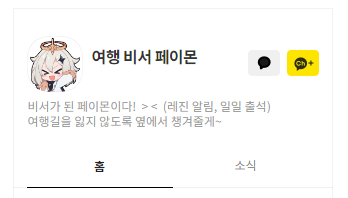
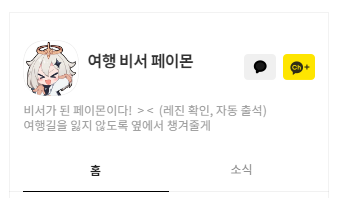
Resolve #7, resolve #8

diff --git a/docusaurus.config.js b/docusaurus.config.js
@@ -9,7 +9,7 @@ const config = {
   title: "페이몬 ",
   tagline: "페이몬과 함께하는 무언가의 페이지",
   url: "https://github.com/binchoo/paimonganyu-doc",
-  baseUrl: "/",
+  baseUrl: "/paimonganyu-doc/",
 
   projectName: "paimonganyu-doc",
   organizationName: "binchoo",

diff --git a/docs/tutorial/index.md b/docs/tutorial/index.md
@@ -1,150 +1,262 @@
 ---
 id: index
-title: 페이몬 애드온 튜토리얼
+title: 여행 비서 페이몬! 튜토리얼
 sidebar_position: 1
 ---
+![채널 아이콘](resources\kakao_channel_icon_100_100.png)
 
-# 여행 비서 페이몬 기능 안내
+# 여행 비서 페이몬! 튜토리얼
 
-## 📚여행 비서 페이몬!
+## 원신 유저를 위한 카카오 챗봇
 
-**여행 비서 페이몬**은 Hoyoverse 게임 [원신](https://genshin.hoyoverse.com/ko/)의 API를 래핑해
+**「여행 비서 페이몬!」**은 호요버스(前 미호요)가 운영하는 오픈 월드 RPG 게임 [**원신**](https://genshin.hoyoverse.com/ko/)을 대상으로 한 게임 편의성 챗봇입니다.
 
-각종 게임 편의 기능을 제공하는 카카오 챗봇입니다.
+해당 챗봇은 호요버스 커뮤니티의 API를 래핑하여, 원신 유저에게 다양한 편의 기능을 제공하는 것을 목표로 합니다.
 
-원신 플레이어(이하 "여행자")들을 위해 페이몬이 대신 할 수 있는 일을 살펴볼까요??
+현 시점에 `호요랩 일일 출석`,  `여행자 상태 조회`, `코드 리딤 배포`를 중심으로 기능을 구성하고 있습니다.
 
 ![img](resources\channel_profile.png)
+> **「여행 비서 페이몬!」 카카오 채널** :point_right: http://pf.kakao.com/_mtPFb
+>
+> 카카오 채널과 친구를 맺고 챗봇 서비스 이용을 시작할 수 있어요!
 
-## 📗호요랩 일일 출석 관련 서비스
+여행 가이드 뿐만이 아니라 비서로서의 역할을 자처하는 페이몬! 
 
+페이몬 비서가 <u>여행자들을 대신해 어떤 일을 할 수 있는지</u> 살펴볼까요? 
+
+## 호요랩 일일 출석
 ![호요랩의 일일출석](resources\hoyolab_dailycheckin.png)
+*호요랩 일일 출석 화면*
 
-여행자들은 호요버스 커뮤니티인 [HoYoLab에 출석](https://webstatic-sea.mihoyo.com/ys/event/signin-sea/index.html?act_id=e202102251931481)해서 소소한 보상을 받을 수 있습니다.
+여행자들은 호요버스의 게임 커뮤니티 [호요랩](https://webstatic-sea.mihoyo.com/ys/event/signin-sea/index.html?act_id=e202102251931481)에 매일 출석하여 소소한 게임 보상을 획득할 수 있습니다. 
 
-하지만 출석 체크 위해 커뮤니티에 매일 방문하는 건 귀찮아서... 많이 빼먹게 되죠?
+그러나 페이몬 비서는 여행자들이 커뮤니티 방문을 귀찮아하고, 출석 체크를 자주 까먹고 있다는 걸 알고 있어요 :cry:.
 
-> ![페이몬 이모지](resources\paimon_emoji.png) 그럼 **여행 비서 페이몬**에게 당신의 호요버스 통행증을 등록해 줘!
+> ![페이몬 이모지](resources\kakao_channel_icon_50_50.png)**야박한 보상도 티끌 모아 태산!**
 >
-> 페이몬이 출석 체크를 매일 대신해서 해 줄게~
+> 「여행 비서 페이몬!」에게 당신의 <u>호요버스 통행증을 등록</u>해 줘! 페이몬이 출석 체크를 매일 매일 대신해 줄게~
 
-### 출석 체크
+### 자동 일일 출석 서비스
 
-통행증을 등록한 여행자라면 페이몬에게 출석체크를 부탁할 수 있습니다.
+「여행 비서 페이몬!」은 여행자의 등록된 통행증이 있을 경우, 매일 매일 특정 시각에 :heavy_check_mark:호요랩 일일 출석을 넣어주고 있습니다.![배치 일일 출석 워크플로](resources\batch_dailycheck_workflow.png)
+*Cron 기반의 일일 출석 자동화 워크플로*
 
-[**통행증 조회> 출석 체크** 클릭!]![일일 출석 요청](resources\ui_dailycheck.png)
+### 직접 일일 출석도 가능해요
 
-### 자동 출석 체크 서비스
+통행증을 등록한 여행자라면 이 통행증을 가지고 페이몬에게 출석 체크를 직접 부탁할 수도 있습니다.
 
-**여행 비서 페이몬**은 여행자가 등록한 통행증을 사용하여 매일 매일 출석 체크를 넣어줍니다.
+![direct_daily_check_in](resources\direct_daily_check_in.png)
 
-> ![페이몬 이모지](resources\paimon_emoji.png) 그거 알아? 페이몬은 하루에도 세 번, 여행자를 대신해서 출석 체크를 시도하고 있다구~
+*홈> 통행증 조회> 출석 체크*
 
-**Cron 기반의 출석체크 워크플로**![배치 일일 출석 워크플로](resources\batch_dailycheck_workflow.png)
+또는, *홈> 기능 모음> 일일 출석*
 
-> **출석 체크 시점 안내**
+
+
+> ![페이몬 이모지](resources\kakao_channel_icon_50_50.png)**패이몬의 호요랩 일일 출석 시점 정리**
 >
-> 1. 챗봇 사용자가 출석 체크를 요청할 경우
-> 2. 챗봇 사용자가 통행증을 페이몬에게 등록한 시점에 1회
-> 3. 매일 3번의 정해진 시각에: GMT+9 (Seoul) 01, 09, 17시
+>   1. 챗봇 사용자가 페이몬에게 직접 출석 체크를 요청할 경우.
+>   2. 챗봇 사용자가 페이몬에게 통행증을 등록에 성공한 시점에 1회.
+>   3. 매일 3번 8시간 마다 -  서울 시각 1시/9시/17시.
+>
+> 페이몬은 하루에도 세 번, 여행자를 대신해서 출석 체크를 시도한다는 점 알아줘~
 
-### 출석 체크 이력
+### 일일 출석 이력 조회
 
-페이몬을 통해 호요랩 일일 출석을 시도한 이력을 확인해 볼 수 있습니다.
+페이몬이 여행자를 대신해 일일 출석을 시도한 이력을 모든 통행증에 대해서 확인해 볼 수 있습니다.
 
-[**기능 모음> 페이몬의 출석 기록**]
+![](resources\daily_check_in_log.png)
 
-![출석체크 이력](resources\ui_dailycheck_log.png)
+*홈> 통행증 조회> 출석 체크>  결과 응답> 출첵 로그*
 
-## 📕여행자 실시간 조회 서비스
+또는, *홈> 기능 모음> 페이몬의 출석 기록 <4*
 
-여행자들의 피로도 수치인 "레진", 지금 얼마나 쌓여 버렸는지 궁금하지 않으세요?
+## 여행자 조회 서비스
 
-그럼 여행 비서인 페이몬에게서 확인을 부탁해 보세요.
+![레진 아이콘](resources\resion_icon_50_50.png)
 
-![여행자 스테이터스](resources\ui_traveler_status.png)
+### 실시간 스테이터스 조회
 
-> ![페이몬 이모지](resources\paimon_emoji.png) 레진/레진회복/선계보화/탐사파견수 값들을 알려줄게~ 이것들은 호요랩 API를 통해서 가져온 내용이야!
+여행자들의 피로도 수치인 **레진**! 게임에 들어가지 않은 동안 얼만큼 쌓였을까 궁금하지 않으세요?
 
-## 📘 통행증 관련 안내
+이럴 땐 여행 비서인 페이몬에게 물어보세요. 등록된 모든 여행자 캐릭터들의 스테이터스를 조회하여 알려줄 거예요~.
 
-> ![페이몬 이모지](resources\paimon_emoji.png) 페이몬에게 통행증을 알려주지 않으면, 귀찮은 일들을 대신해 줄 수 없어...
+![여행자 스테이터스](resources\traveler_status.png)
 
-### 통행증은 왜 필요한가요?
+*홈> 실시간 스탯*
+또는, *홈> 기능 모음>  실시간 여행자 상태*
 
-통행증이란 여행자 여러분의 호요버스 계정 인증 정보입니다.
+> ![페이몬 이모지](resources\kakao_channel_icon_50_50.png)**각 스테이터스 설명!** 
+>
+> 페이몬이 알려주는 이 값들은 호요랩 API에서 가져오고 있어~.
+>
+> 1. **레진**: 현재 쌓여있는 레진.
+>
+> 2. **레진회복**: 레진 풀 회복까지 예상되는 시간.
+>
+> 3. **선계보화**: 선계에 쌓여있는 선계 코인 수.
+>
+> 4. **탐사중**: 탐사 파견 상태에 있는 캐릭터 숫자.
 
-호요랩 API를 호출할 때 필요하므로 **여행 비서 페이몬에게 꼭 하나 이상의 통행증을 등록**해주세요.
+### :calendar: 게임 전적 조회
+
+(개발 예정:calendar: 기능입니다.)
+
+「여행 비서 페이몬!」은 호요랩 API 이용 기반이 마련되어 있어서 추후,
+
+게임 전적 데이터를 활용한 기능이 업데이트 될 가능성이 있습니다. 페이몬 비서의 직무 확장을 기대해 주세요!
+
+## 통행증 특강
+
+![열쇠 아이콘](resources\black_key_50_50.png)
+
+> ![페이몬 이모지](resources\paimon_crying_50_50.png) **통행증의 중요성에 대해⋯**
+> 통행증이 없다면 페이몬이 여행자 대신 귀찮은 일들을 처리할 수 없어. 비서 실직이라구⋯.
+>
+> 페이몬 비서와의 "첫 단추"는 통행증 QR을 만들어서 스캔하는 거야. 꼭 기억해!
+
+### 통행증이란?
+
+통행증이란, 호요버스에서 여행자의 호요버스 계정에 부여하는 고유한 인증 정보를 말합니다.
 
 ![호요랩 통행증](resources\hoyolab_hoyopass.png)
 
-호요랩에 가면 자신의 통행증 아이디가 있다는 걸 확인해 볼 수 있어요~
+*(호요랩> 개인 페이지) 본인에게 통행증 ID가 있는 걸 눈치 채셨나요?*
 
-### 통행증 등록하기
 
-통행증은 3가지 유저 인증 정보로 구성되며, 이 값들을 챗봇에 일일히 입력하는 것은 버겁습니다.
 
-- `ltuid`과 `ltoken`: 호요버스 계정의 인증 정보입니다.
+페이몬 비서가 여러분을 대신해 어떻게 호요버스 API를 호출 할 수 있을까요? 
 
-- `cookietoken`: 호요버스 계정의 코드 리딤용 인증 정보입니다.
+바로 여행자가 등록한 통행증 덕분입니다!
 
-따라서 **보안 통행증 QR 만들기** 절차에 따라 **QR 코드를 스캔하여** 업로드해 주세요!!
 
-## 📘 통행증 QR 만들기
 
-### 1단계. 호요버스 계정의 인증 정보를 찾자
+「여행 비서 페이몬!」 이용에 필수 불가결한 **통행증**! 꼭 하나 이상의 통행증을 등록해 주세요.
 
-#### ltuid, ltoken 찾는 방법
+### 본인의 통행증 값 알아내기
 
-[HoYoLab](https://www.hoyolab.com/home) 로그인 후 브라우저 쿠키에서 획득
+본인의 통행증 정보는 <u>호요랩 로그인 후 브라우저의 쿠키에 세팅</u>되며, 3가지 값으로 구성됩니다.
 
-![img-20220615135949028](resources\ltuid_ltoken.png)
+1. `ltuid`: 호요버스 계정의 통행증 아이디입니다.
+2. `ltoken`: 통행증 아이디에 대응되는 개인 토큰입니다.
+3. `cookie_token`: 코드 리딤 서비스에서 이용되는 개인 토큰입니다. 
 
-#### cookietoken 찾는 방법
 
-**[원신 리딤 페이지](https://genshin.hoyoverse.com/ko/gift)**에서 로그인 후 브라우저 쿠키에서 획득
 
-![img-20220615140445067](C:\Users\wnwoq\AppData\Roaming\Typora\typora-user-imgs\img-20220615140445067.png)
+이 세 가지 값을 찾는 방법 - 간단해요!
 
-### 2단계. QR 코드를 만들자
+#### **1단계. HoYoLab에서 로그인**
 
-1. [링크: 현재 깃허브 페이지 QR 생성하는 부분]에서 획득한`ltuid, ltoken, cookietoken`를 모두 입력하여 주세요.
-2. QR 생성을 요청해서 QR 코드를 획득합니다.
+![호요랩 로그인](resources\hoyopass_login.png)
 
-> ![페이몬 이모지](resources\paimon_emoji.png) QR 코드에 담은 여행자의 인증 정보는 암호화가 되어있어서 **보안 통행증**이라고 부르고 있지~
+**PC 브라우저**로 [호요랩](https://www.hoyolab.com/home)에 방문해서 본인의 호요버스 계정으로 로그인 해 주세요.
+
+#### **2단계. 개발자 도구로 쿠키 값 들여다 보기**
+
+![통행증 쿠키](resources\hoyopass_cookies.png)
+
+
+<details>
+  <summary>한국어 단계</summary>
+   `개발자도구(F12)` > `응용 프로그램` 탭> `저장소` 섹션> `쿠키` 항목> 호요랩 URL 주소 클릭!
+</details>
+
+<details>
+  <summary>영어 단계</summary>
+   `DevTools(F12)`> `Application` 탭> `Storage` 섹션> `Cookies` 항목> 호요랩 URL 주소 클릭!
+</details>
+
+
+`ltoken`, `ltuid`, `cookie_token` 값을 발견하면 메모장 같은 데에 잘 복사해 두세요~.
+
+
+
+## 통행증 관리 서비스
+
+![열쇠 아이콘](resources\black_key_50_50.png)
+
+### QR 코드(보안 통행증) 만들기
+
+[통행증 값 알아내기](./tutorial#본인의-통행증-값-알아내기)에서 통행증 쿠키 값을 모두 확인했나요? 
+
+![image-20220619013518983](resources\create-qr-code.png)
+
+「여행 비서 페이몬!」의 통행증 등록은 QR 코드 스캔으로 이뤄집니다.
+
+[통행증 QR 만들기 페이지](./tutorial/create-qr-code)에서 통행증 쿠키 값들을 QR에 담아 생성해 주세요.
+
+> ![페이몬 이모지](resources\kakao_channel_icon_50_50.png)**QR 코드를 쓰는 이유!**
 >
-> 그래도 이걸 다른 사람에게 공유해서는 안 돼! 멋대로 스캔해 가 버리면 곤란하잖아?
+> 통행증을 구성하는 값들이 무척 복잡하지?
+>
+> 그들을 채팅에다 입력하기 버거울 뿐더러, 개인 정보를 텍스트로 전송하는 건 안전하지 못 해.
+>
+> 하지만 페이몬하고 만든 QR 코드는 암호 처리가 돼 있어! 그래서 **보안 통행증**이라 부르곤 하지.
 
-## 📘 통행증 등록하기 (QR 스캔)
+> ![루미네 이모지](resources\lumine_dizzy_50_50.png)**QR 코드를 다른 사람한테 공유해도 돼?**
+>
+> ![페이몬 이모지](resources\paimon_crying_50_50.png) 그래도 안 돼! 걔가 멋대로 스캔해 가 버리면 곤란하잖아⋯.
 
-![QR 생성된 모습](resources\ui_qrscan.png)
+### 통행증 등록 (QR 스캔)
 
-1. **여행 비서 페이몬**에서 QR 스캔 기능을 호출합니다. **(QR 등록 안내> 스캔 진행> 스캐너 열기)**
-2. 웹 사이트에서 제작한 QR 코드를 스캔해 주세요.
-3. 페이몬이 통행증 정보를 등록 완료하면, 해당 계정의 모든 여행자 캐릭터가 표시됩니다. (주의. 10초 이상 응답이 지연될 경우 스캔을 재시도 해보세요)
+**통행증 등록**은 여행 비서 페이몬과 <u>처음으로 해야 할 일</u>입니다!
 
-## 📘 통행증 조회
 
-통행증 등록을 마쳤다면 아래와 등록된 통행증을 조회할 수 있어야 합니다.
 
-꼭 `통행증 조회` 기능을 호출해 보세요. 해당 계정에 대해 출석 체크를 요청하거나, 정보 삭제를 요청할 수도 있습니다~
+[통행증 QR 만들기 페이지](./tutorial/create-qr-code)에서 QR 코드를 완성하고 챗봇에서 스캔해 주세요.
 
-![통행증 조회](resources\ui_hoyopasses.png)
+스캔에 성공하면, 페이몬은 해당 계정 속의 여행자들을 파악할 거예요.
 
-## :orange_book: 코드 리딤 서비스
+![통행증 등록](resources\hoyopass_register.png)
+
+*하단 메뉴> 통행증 등록* 
+
+또는, *홈> 기능 모음> 통행증 등록* 에서 스캐너를 열고 QR 코드를 스캔 전송하세요.
+
+
+
+> **지연 응답 대처**
+>
+> AWS Labmda의 콜드 스타트와 Springboot의 부트스트랩이 지연을 야기할 수 있습니다. (프로젝트 목적상 기술 스택을 타협할 수 없었습니다.)
+>
+> 응답 지연 발생시 약 10초의 텀을 가지고 수차례 재시도 해주세요.
+
+### 통행증 조회
+
+페이몬 비서가 관리하는 통행증 정보를 보고 싶으신가요? 그럼 통행증 조회를 요청하여 보세요.
+
+통행증을 조회하고 나서 출석 체크를 요청하거나, 정보 삭제를 요청할 수도 있어요.
+
+![통행증 조회](resources\hoyopass_list.png)
+
+## 코드 리딤 서비스
 
 ### 페이몬의 코드 리딤
 
 ![img](resources\new_redeem_workflow.png)
+*신규 리딤 코드에 대한 전 유저 대상 리딤 워크플로*
 
-> ![페이몬 이모지](resources\paimon_emoji.png) 그거 알아? 페이몬은 (관리자에 의해) 새로운 리딤 코드를 알게 될 때마다
+> ![페이몬 이모지](resources\kakao_channel_icon_50_50.png) **박애주의자에 대해⋯**
 >
-> 등록된 모든 여행자의 계정으로 코드 리딤을 넣어주고 있다구~
+> 그거 알아? 페이몬은 (관리자에 의해) 새로운 리딤 코드를 알게 될 때마다
+>
+> 등록된 모든 여행자의 통행증으로 코드 리딤을 넣어주고 있어~
 
-### (개발중) 리딤 코드 배포 기능
+### :wrench: 유저의 코드 리딤
+
+ (개발중:wrench: 기능입니다.)
+
+> ![페이몬 이모지](resources\kakao_channel_icon_50_50.png) **박애주의자 모집에 대해⋯**
+>
+> 새로 알게 된 리딤 코드가 있다구? 그럼 페이몬 비서에게도 알려주지 않을래?
+>
+> 다른 모든 여행자들에게도 똑같이 리딤 코드를 넣어 주겠어~.
+
+### :wrench: 통행증 등록시 코드 리딤
+
+(개발중:wrench: 기능입니다.)
 
 ![img](resources\new_user_redeem_workflow.png)
+*신규 통행증에 대한 코드 리딤 워크플로*
 
-> ![페이몬 이모지](resources\paimon_emoji.png) 새로 알게 된 리딤 코드가 있다구? 그럼 페이몬에게도 알려주지 않을래?
->
-> 페이몬이 다른 모든 여행자들에게도 리딤 코드를 넣어 주겠어~
+「여행 비서 페이몬!」 에 통행증을 등록할 경우, 해당 통행증을 대상으로 알려진 모든 리딤 코드가 리딤 시도됩니다. 
